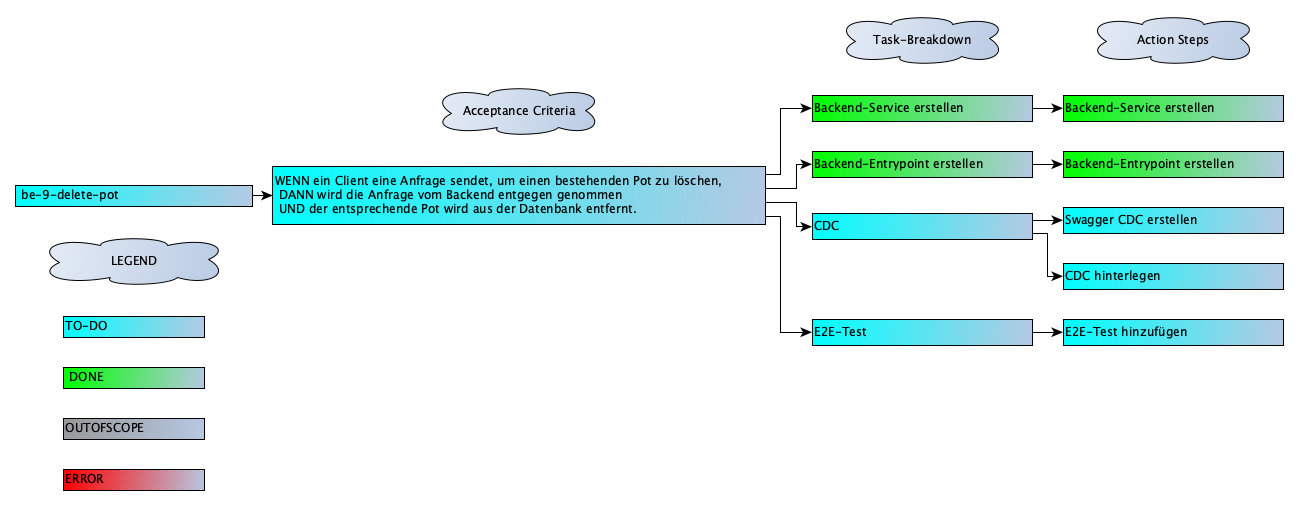
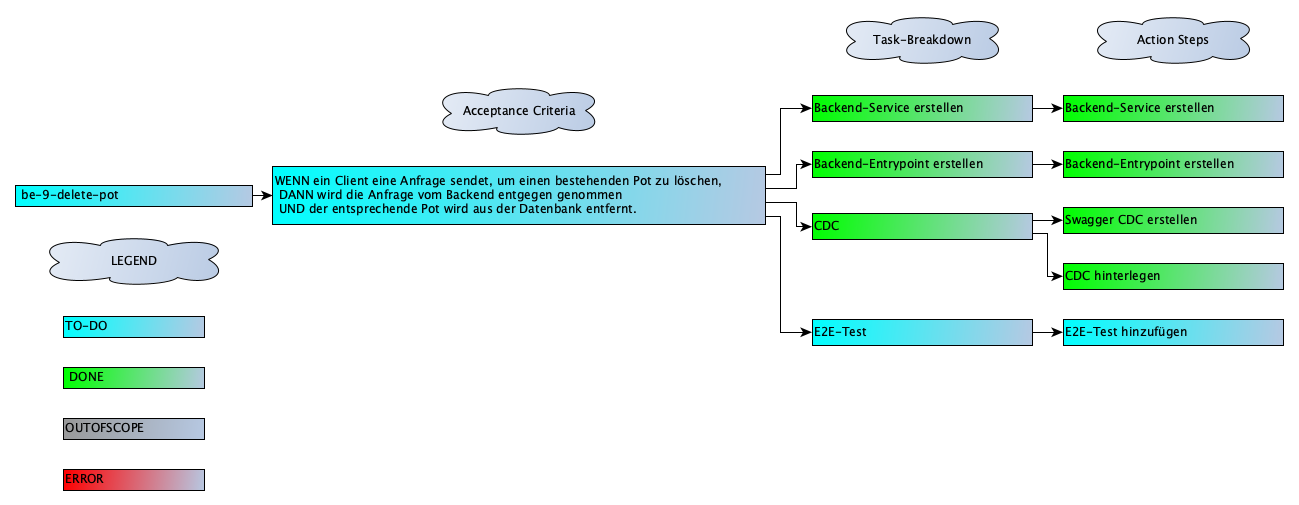
be-9 add cdc

Changed region(s): [[0.6159, 0.3861, 0.9854, 0.4752], [0.8006, 0.505, 0.9854, 0.5941]]

diff --git a/backend/src/apis/pots/pots.controller.spec.ts b/backend/src/apis/pots/pots.controller.spec.ts
@@ -3,6 +3,7 @@ import { PotsController } from './pots.controller';
 import { PotsService } from './pots.service';
 import { APIEditedPotDTO } from '../../model/apis/APIEditedPotDTO';
 import { NotFoundException } from '@nestjs/common';
+import { APIPotNameDTO } from '../../model/apis/APIPotNameDTO';
 
 jest.mock('./pots.service', () => ({
   PotsService: jest.fn().mockImplementation(() => ({
@@ -31,6 +32,10 @@ const mockedPots = [
 const mockedEditedPot: APIEditedPotDTO = {
   ...mockedPots[0],
   oldName: mockedPots[0].name,
+};
+
+const mockedPotName: APIPotNameDTO = {
+  potName: mockedPots[0].name,
 };
 
 describe('PotsController', () => {
@@ -123,7 +128,7 @@ describe('PotsController', () => {
   });
 
   it('deletes an existing pot', async () => {
-    await controller.deletePot(mockedPots[0].name);
+    await controller.deletePot(mockedPotName);
 
     expect(potsService.deletePot).toHaveBeenCalledWith(mockedPots[0].name);
   });
@@ -133,9 +138,9 @@ describe('PotsController', () => {
       throw new Error('Service failure');
     });
 
-    await expect(() =>
-      controller.deletePot(mockedPots[0].name),
-    ).rejects.toThrow('Error while deleting pot: Service failure');
+    await expect(() => controller.deletePot(mockedPotName)).rejects.toThrow(
+      'Error while deleting pot: Service failure',
+    );
   });
 
   it('throws NotFoundException if finding pot to delete fails', async () => {
@@ -143,8 +148,8 @@ describe('PotsController', () => {
       throw new NotFoundException('Service failure');
     });
 
-    await expect(() =>
-      controller.deletePot(mockedPots[0].name),
-    ).rejects.toThrow('Pot not found.');
+    await expect(() => controller.deletePot(mockedPotName)).rejects.toThrow(
+      'Pot not found.',
+    );
   });
 });

diff --git a/backend/src/apis/pots/pots.controller.ts b/backend/src/apis/pots/pots.controller.ts
@@ -13,6 +13,7 @@ import { PotsService } from './pots.service';
 import { APIPotDTO } from '../../model/apis/APIPotDTO';
 import { ApiOperation, ApiResponse } from '@nestjs/swagger';
 import { APIEditedPotDTO } from '../../model/apis/APIEditedPotDTO';
+import { APIPotNameDTO } from '../../model/apis/APIPotNameDTO';
 
 @Controller('pots')
 export class PotsController {
@@ -107,9 +108,9 @@ export class PotsController {
     status: HttpStatus.INTERNAL_SERVER_ERROR,
     description: 'Server error occurred while deleting the pot.',
   })
-  async deletePot(@Body() potToDelete: string): Promise<void> {
+  async deletePot(@Body() potToDelete: APIPotNameDTO): Promise<void> {
     try {
-      await this.potsService.deletePot(potToDelete);
+      await this.potsService.deletePot(potToDelete.potName);
     } catch (error) {
       if (error instanceof NotFoundException) {
         throw new NotFoundException('Pot not found.');

diff --git a/backend/src/model/apis/APIPotNameDTO.ts b/backend/src/model/apis/APIPotNameDTO.ts
@@ -1,0 +1,11 @@
+import { IsString } from 'class-validator';
+import { ApiProperty } from '@nestjs/swagger';
+
+export class APIPotNameDTO {
+  @ApiProperty({
+    description: 'The name of a pot',
+    example: 'Holiday',
+  })
+  @IsString()
+  potName: string;
+}

diff --git a/frontend/src/model/api/APIPotNameDTO.ts b/frontend/src/model/api/APIPotNameDTO.ts
@@ -1,0 +1,3 @@
+export interface APIPotNameDTO {
+  potName: string;
+}
